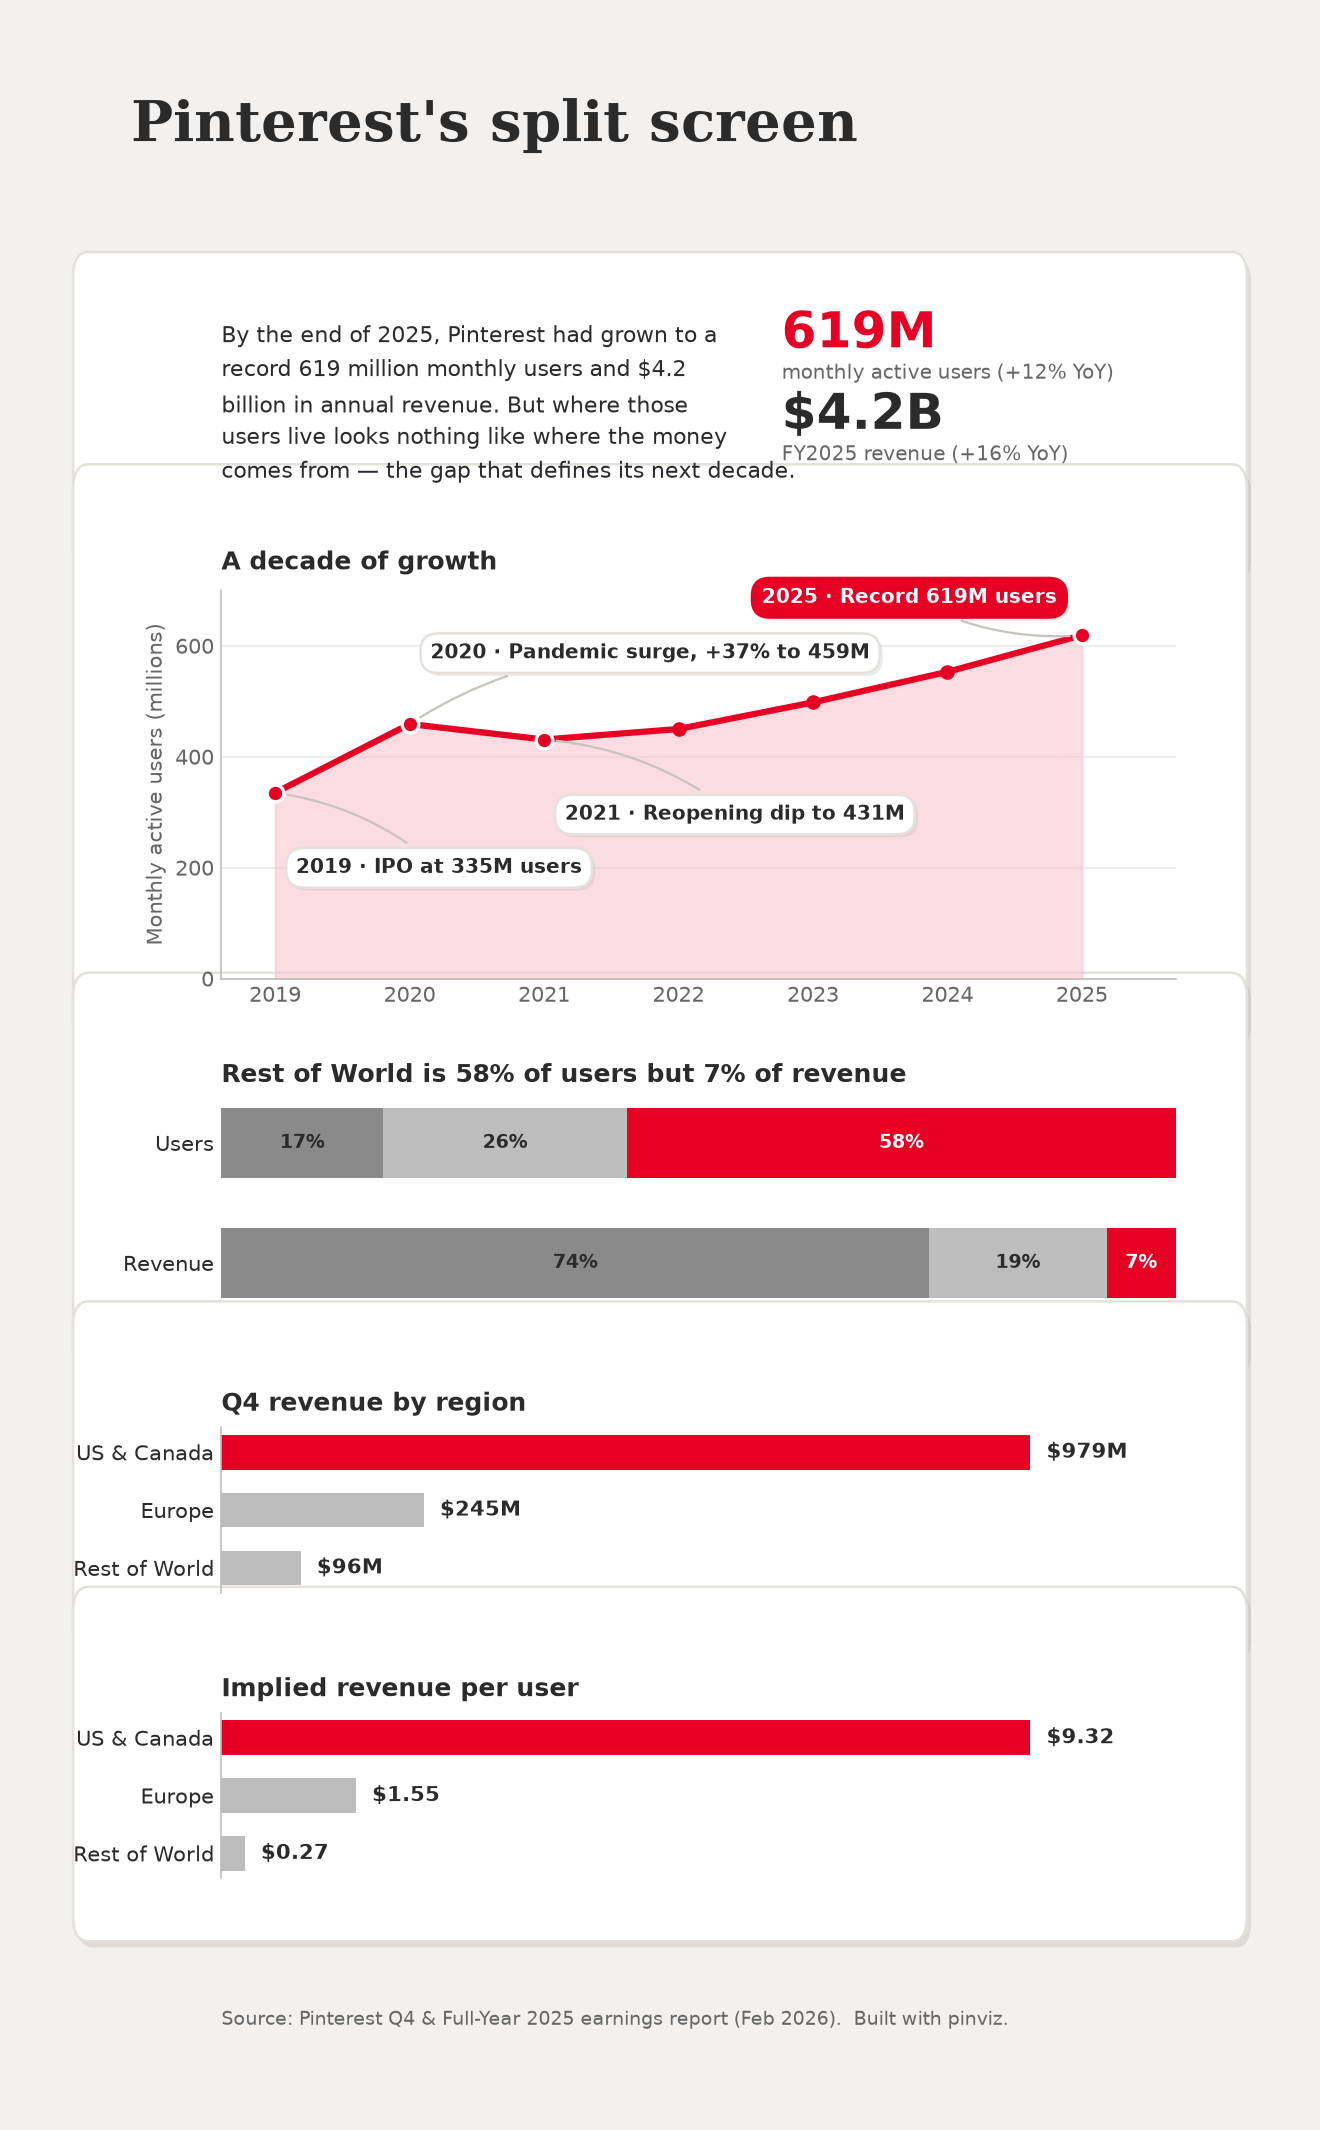
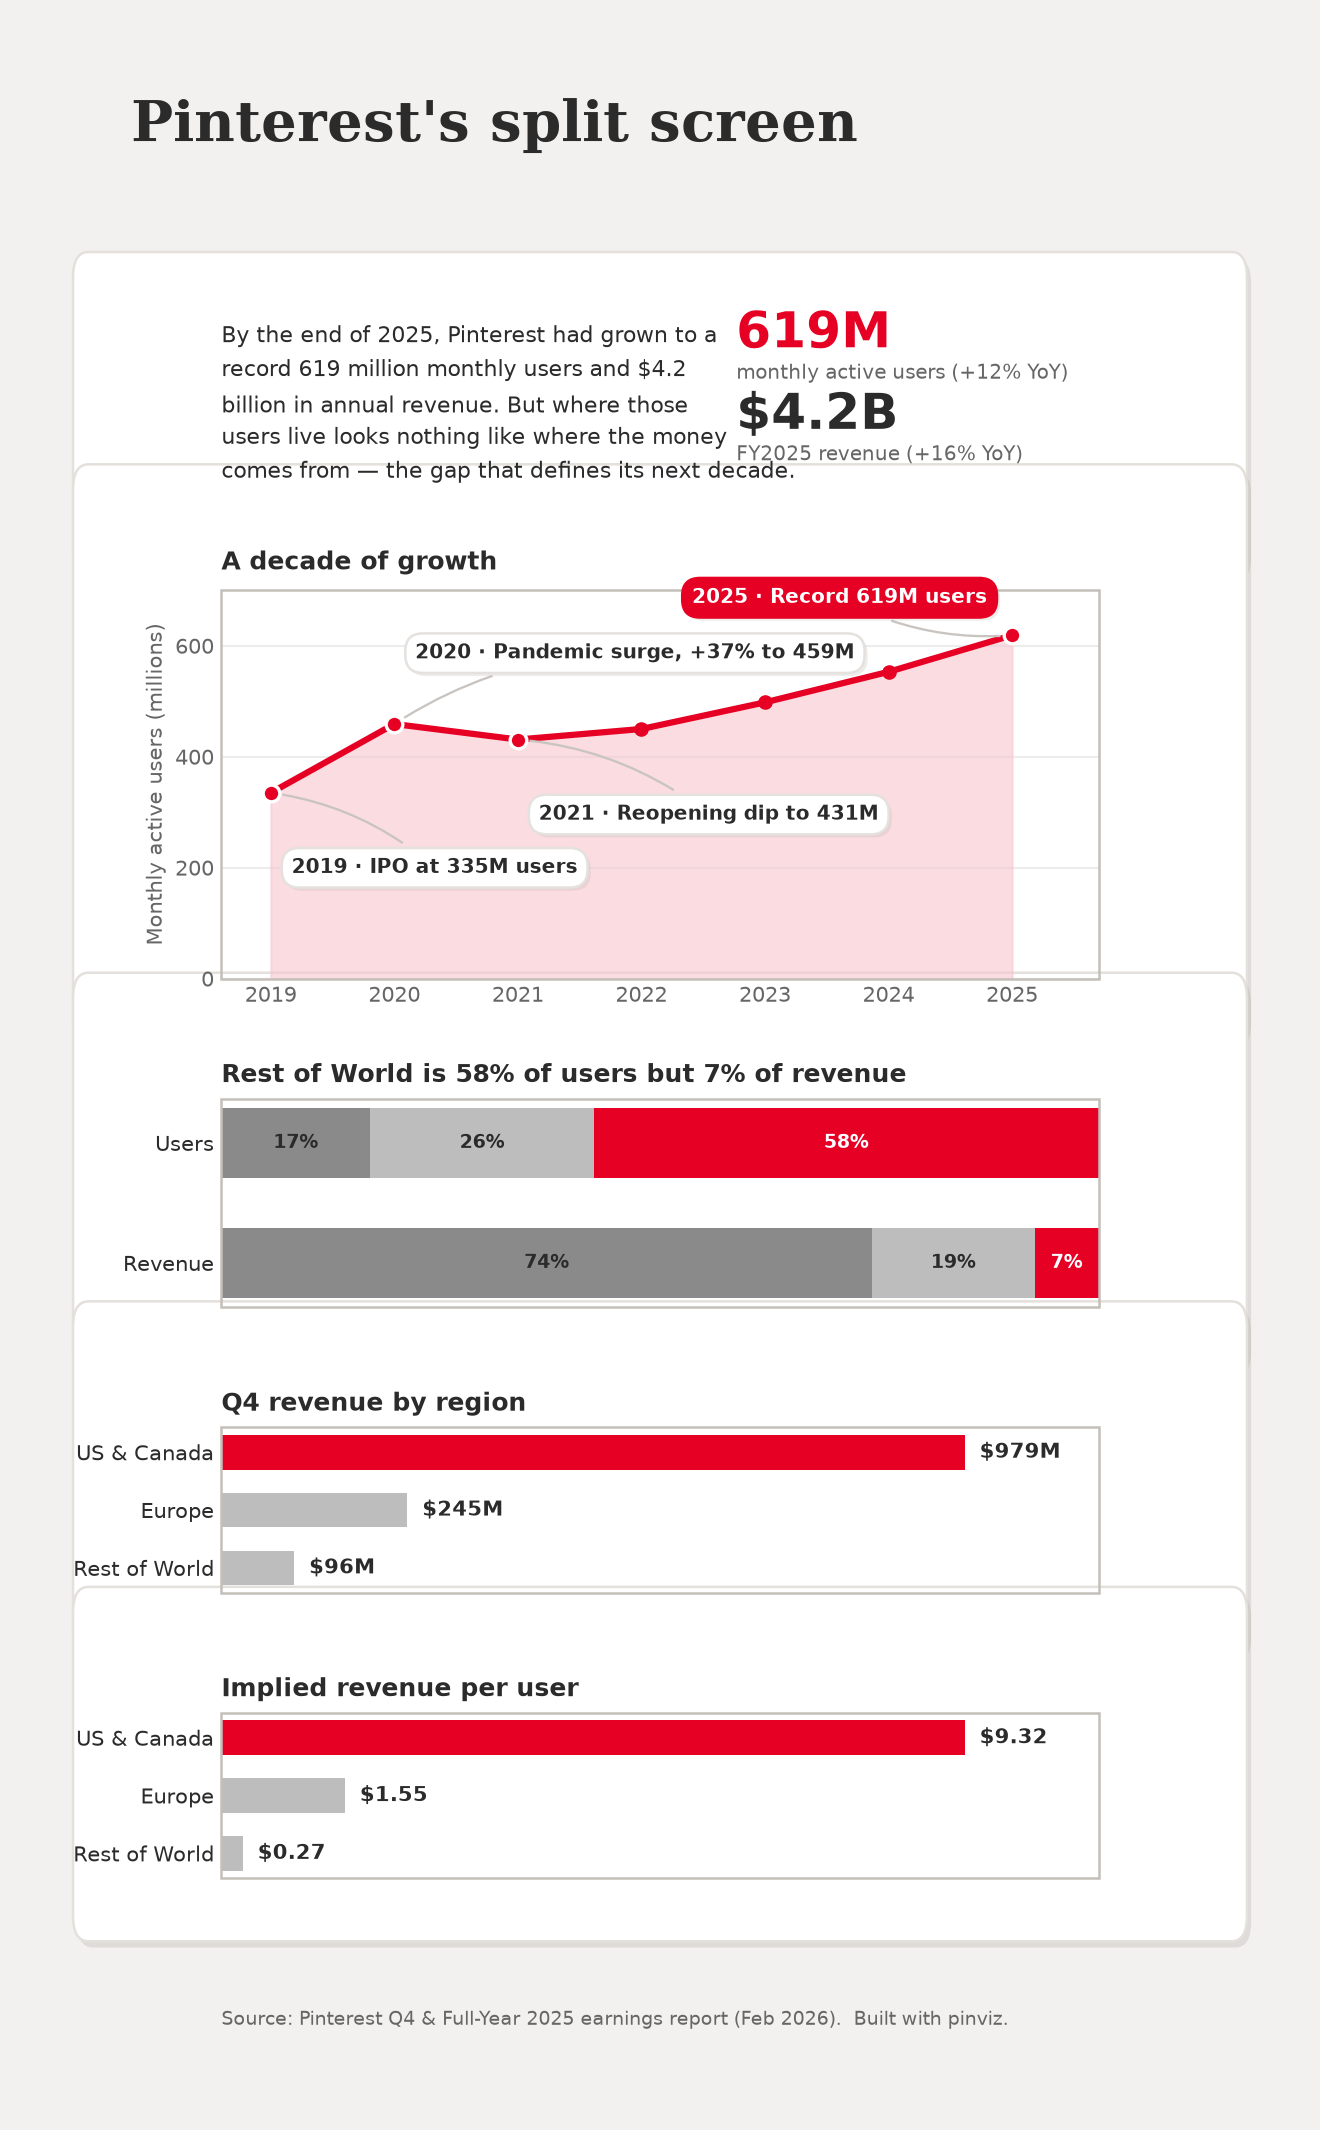
Center charts and add a boundary box to each
Make the gridspec margins symmetric so every chart is centered within its
card with titles aligned, and draw a thin rectangular frame around each
plot area for a clear per-chart boundary.

Claude-Session: https://claude.ai/code/session_012TmZqnf53DuYqMZj6VxjoC

diff --git a/examples/pinviz_poster.py b/examples/pinviz_poster.py
@@ -25,7 +25,7 @@ import matplotlib.pyplot as plt
 import numpy as np
 import pandas as pd
 from matplotlib.gridspec import GridSpec
-from matplotlib.patches import Annulus, Circle, FancyBboxPatch, Polygon
+from matplotlib.patches import Annulus, Circle, FancyBboxPatch, Polygon, Rectangle
 
 from pinviz.theme import GRID, INK, MUTED, PIN_RED, SUBTLE
 
@@ -104,6 +104,14 @@ def add_card(ax_bg, axes, pad_y=0.030, extra_top=0.0, x0=0.045, x1=0.955, pad_bo
     ax_bg.add_patch(card)
 
 
+def add_frame(ax, color="#C4BFB9"):
+    """Draw a thin rectangular boundary around a chart's plot area."""
+    ax.add_patch(Rectangle(
+        (0, 0), 1, 1, transform=ax.transAxes, fill=False,
+        edgecolor=color, linewidth=1.2, zorder=5, clip_on=False,
+    ))
+
+
 def draw_hero(ax, mau):
     x, y = mau["year"], mau["maus_millions"]
     ax.fill_between(x, y, color=PIN_RED_FILL, alpha=0.6, zorder=1)
@@ -111,10 +119,8 @@ def draw_hero(ax, mau):
     ax.set_ylim(0, 700)
     ax.set_xlim(2018.6, 2025.7)
     ax.set_facecolor("none")
-    for side in ("top", "right"):
-        ax.spines[side].set_visible(False)
-    for side in ("left", "bottom"):
-        ax.spines[side].set_color(MUTED)
+    for s in ax.spines.values():
+        s.set_visible(False)
     ax.tick_params(length=0, colors=SUBTLE, labelsize=10)
     ax.grid(axis="y", color=GRID, linewidth=1)
     ax.set_axisbelow(True)
@@ -146,6 +152,7 @@ def draw_hero(ax, mau):
                 markeredgecolor="white", markeredgewidth=1.6, zorder=7)
     ax.set_title("A decade of growth", loc="left", fontsize=12,
                  fontweight="bold", color=INK, pad=10)
+    add_frame(ax)
 
 
 def draw_share_gap(ax, reg):
@@ -178,6 +185,7 @@ def draw_share_gap(ax, reg):
         ax.spines[side].set_visible(False)
     ax.set_title("Rest of World is 58% of users but 7% of revenue",
                  loc="left", fontsize=12, fontweight="bold", color=INK, pad=8)
+    add_frame(ax)
 
 
 def draw_hbar(ax, cats, vals, colors, fmt, title):
@@ -189,11 +197,11 @@ def draw_hbar(ax, cats, vals, colors, fmt, title):
         ax.text(bar.get_width() + pad, bar.get_y() + bar.get_height() / 2,
                 fmt.format(v), va="center", ha="left", fontsize=10, fontweight="bold", color=INK)
     ax.tick_params(length=0, colors=INK, labelsize=10)
-    for side in ("top", "right", "bottom"):
-        ax.spines[side].set_visible(False)
-    ax.spines["left"].set_color(MUTED)
+    for s in ax.spines.values():
+        s.set_visible(False)
     ax.margins(x=0.18)
     ax.set_title(title, loc="left", fontsize=12, fontweight="bold", color=INK, pad=8)
+    add_frame(ax)
 
 
 def main() -> None:
@@ -212,7 +220,7 @@ def main() -> None:
         7, 2, figure=fig,
         height_ratios=[0.55, 1.05, 2.7, 1.45, 1.15, 1.15, 0.3],
         hspace=0.7, wspace=0.30,
-        left=0.16, right=0.90, top=0.95, bottom=0.035,
+        left=0.16, right=0.84, top=0.95, bottom=0.035,
     )
 
     # --- Header: serif editorial headline ---
